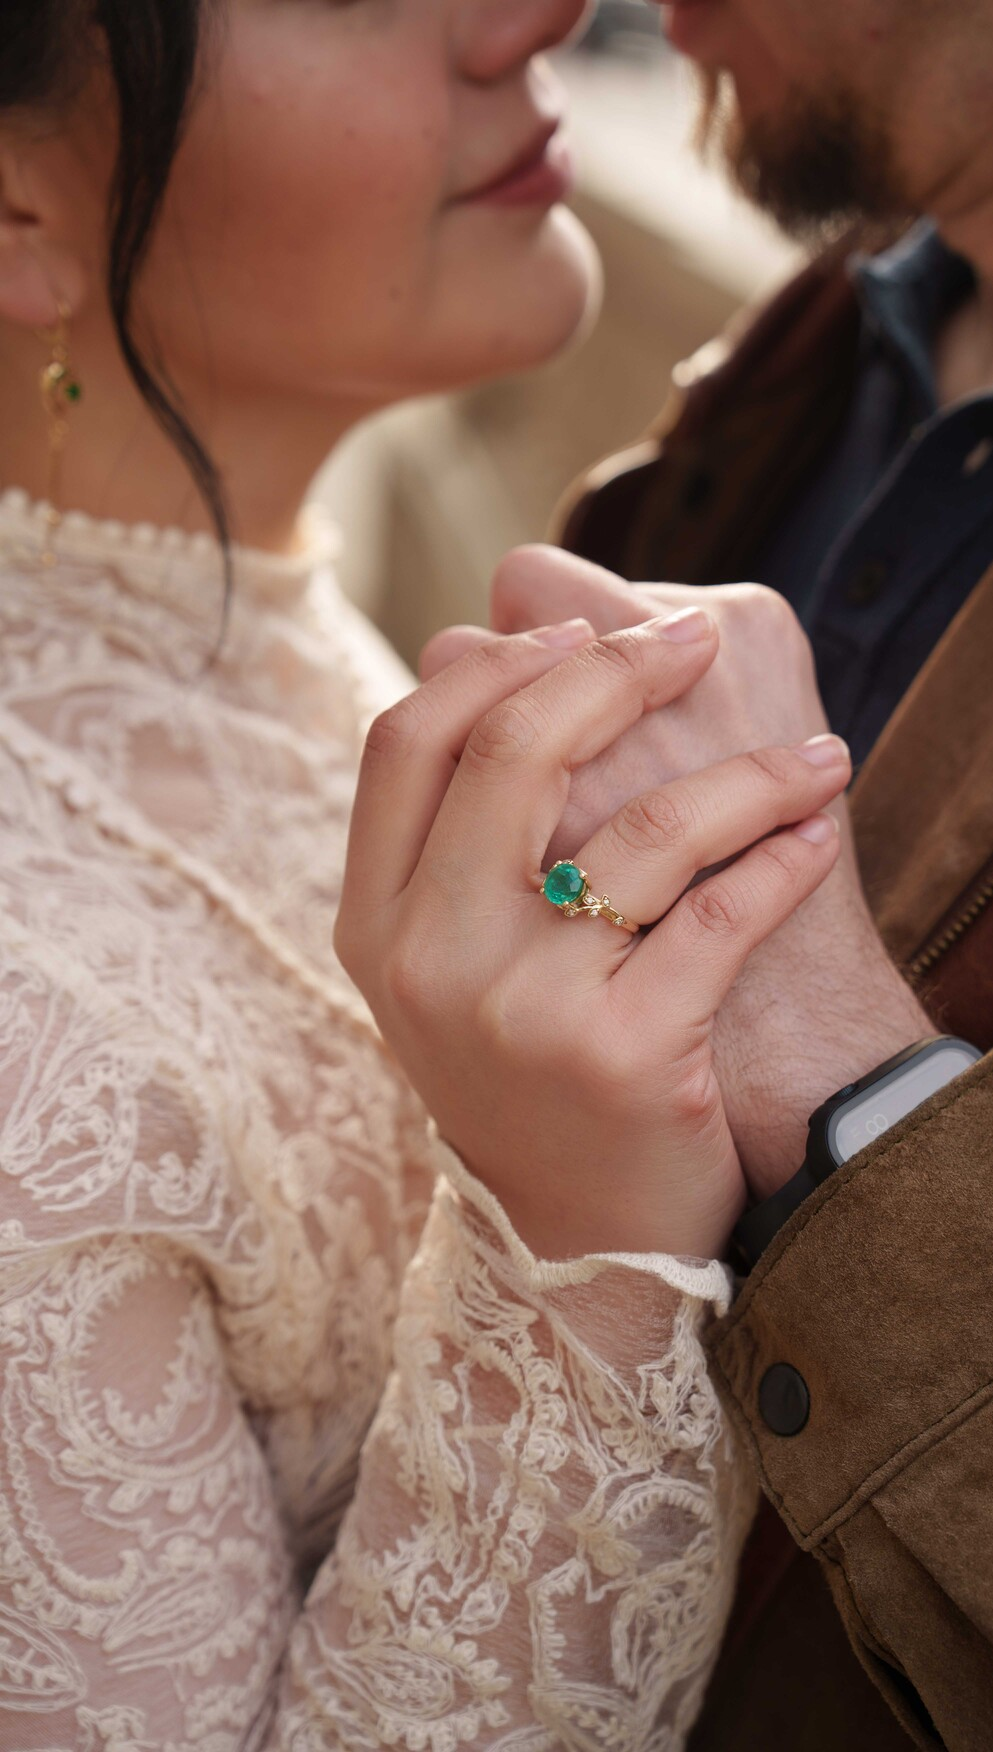
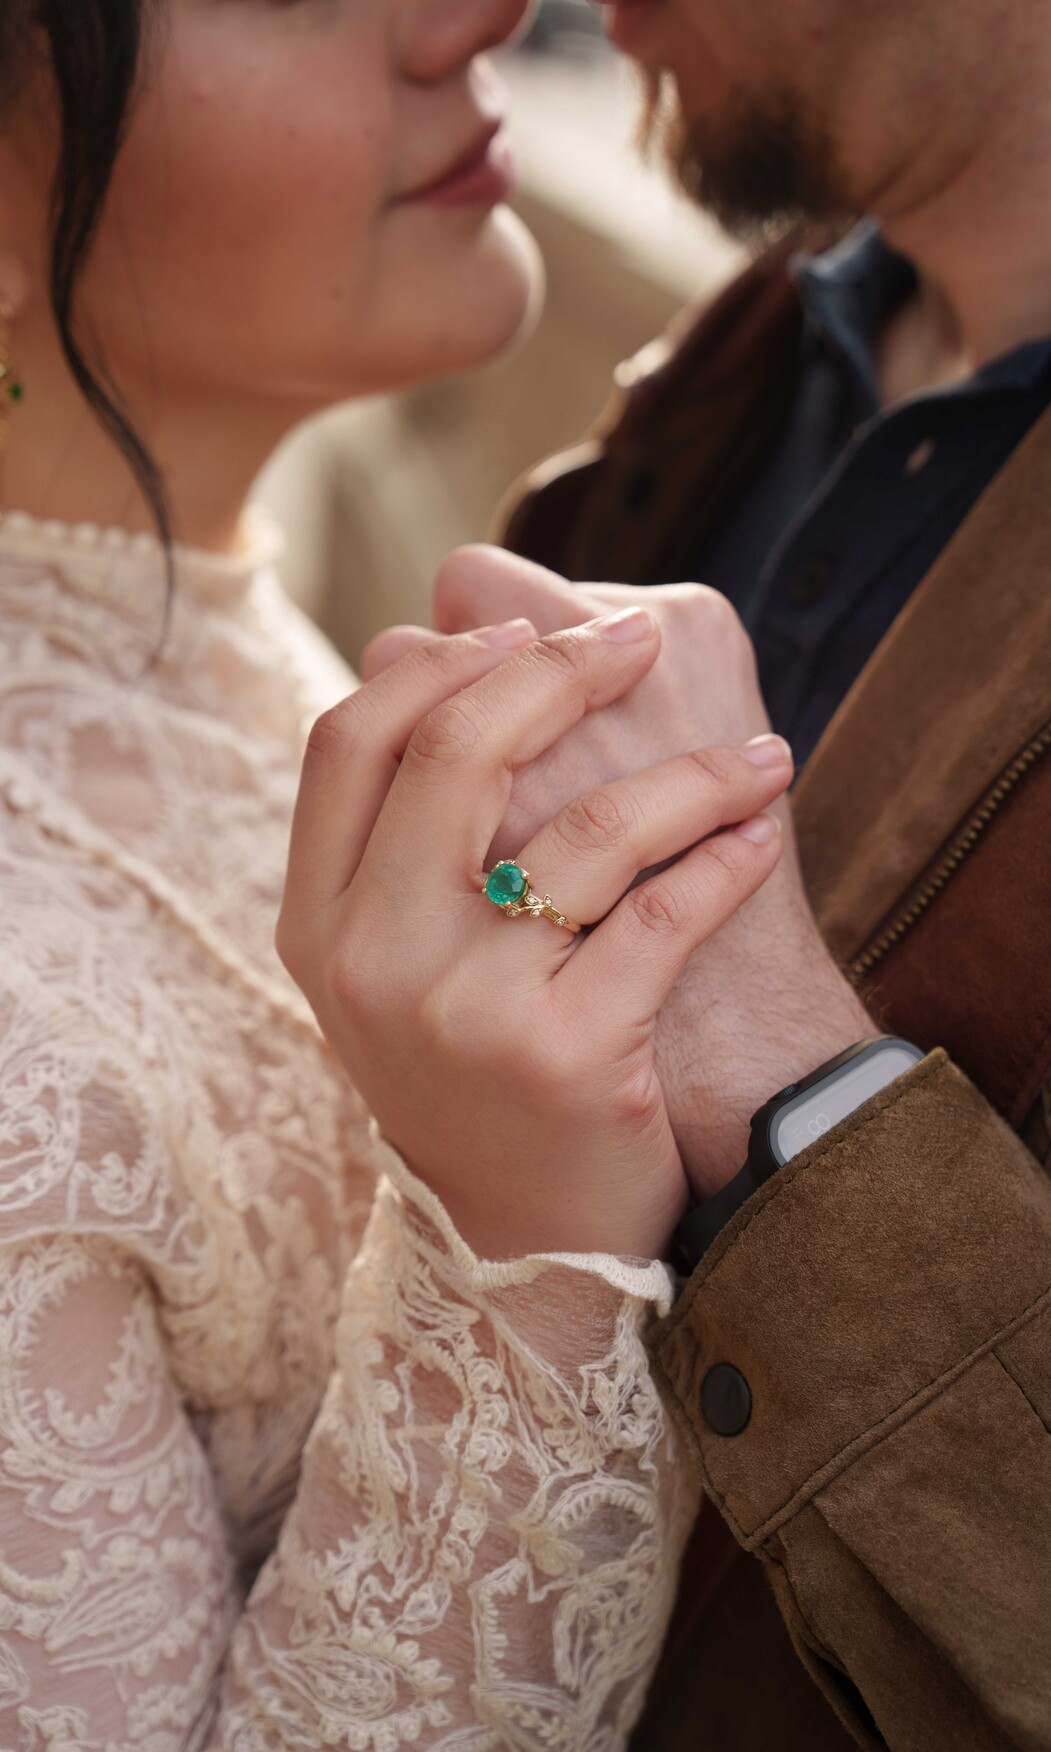
travel: fix imagemagick cropping cmd

diff --git a/design/README.md b/design/README.md
@@ -10,15 +10,19 @@ Cropping 5% on the left and 5% on the right:
 ```
 magick design/photos/20260511-A7408546.jpg \
   -resize 25% \
-  -crop 90%x100%+0+0 \
   -gravity center \
+  -crop 90%x100%+0+0 \
   -quality 90 \
   public/londonmemory1.jpeg
 
 magick design/photos/20260511-A7408612.jpg \
   -resize 25% \
-  -crop 90%x100%+0+0 \
   -gravity center \
+  -crop 90%x100%+0+0 \
   -quality 90 \
   public/londonmemory2.jpeg
 ```
+
+magick /mnt/pepper/Pictures/20260511-londonmemory/20260511-A7408010.jpg  -resize 25% -crop 90%x100%+0+0 -gravity center -quality 90 public/londonmemory3.jpeg
+
+
